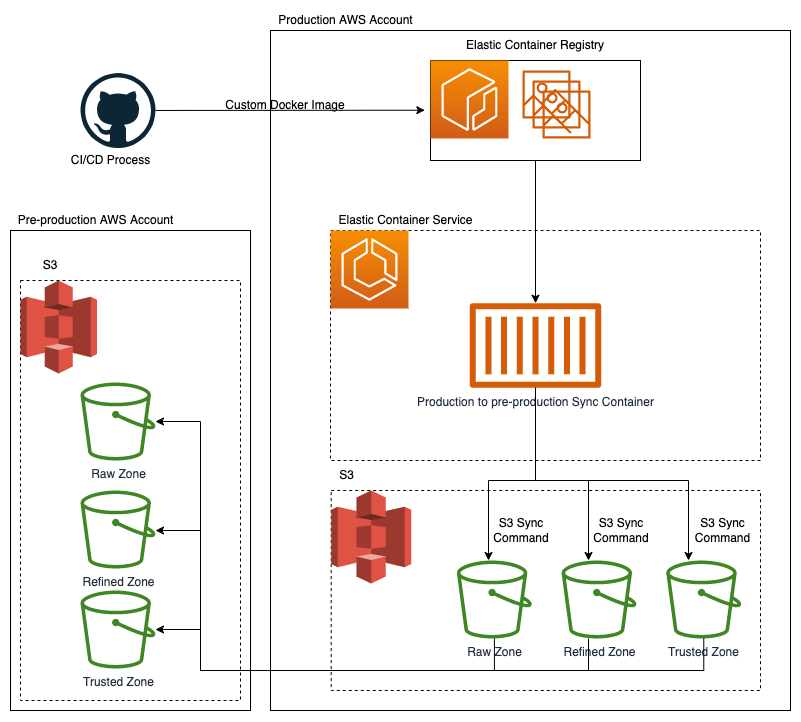
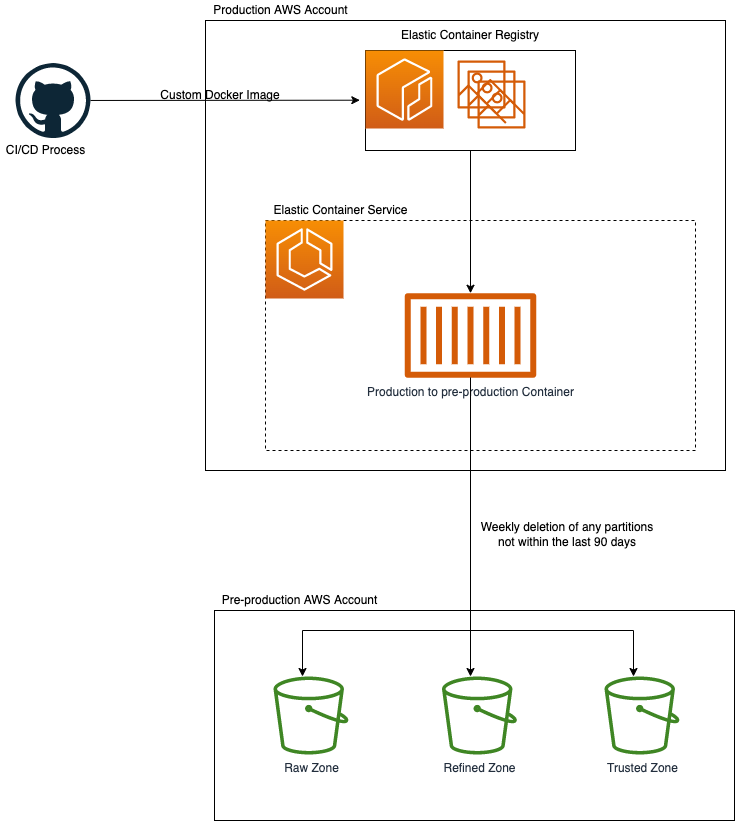
DPP-214 - Production to pre-production data sync documentation update

diff --git a/docs/playbook/ingesting-data/010-production-to-pre-production-sync.md b/docs/playbook/ingesting-data/010-production-to-pre-production-sync.md
@@ -1,0 +1,33 @@
+---
+title: "Production to pre-production data sync"
+description: "Overview of how data is copied from production to pre-production"
+tags: [playbook]
+layout: layout
+---
+
+This section explains the process used to copy data from the data platform production environment into pre-production
+
+## Architecture
+
+### Production to pre-production sync:
+![S3-replication](../../docs/images/s3-replication.png)
+### Clean up of data older than 90 days:
+![Production to pre production sync architecture](../../docs/images/prod-to-pre-prod-sync-architecture.png)
+
+## Process
+
+### Production to pre-production sync:
+1. Data is ingested via any means into the production zones
+2. The data is replicated across to the equivalent pre-production zone in near real time.
+
+Important points:
+* Only new or updated files are replicated to pre-production at the point they are added or modified in production
+* AWS quarantees 99.9% of files/data is replicated to pre-production within 15 minutes but in reality it is much quicker than this
+* There is no deletion or overwriting of data in pre-production via this method
+* This sync process does not update the glue catalogs in pre-production it only syncs across the raw data files. To make the data visible through Athena the relevant Glue crawler will need to be triggered manually in pre-production
+
+### Clean up of data older than 90 days:
+1. When the CI/CD pipeline runs in Github a custom Docker image is built and pushed to the Elastic Container Registry in the Data Platform Production environment.
+2. One Elastic Container Service for each zone is then created by Terraform in the form of Fargate tasks. These three tasks are configured by Terraform to run on a schedule. At the time of writing this schedule is once a day at 11pm.
+4. The script then deletes any data in the pre-production bucket that is older than the configured period
+5. At the time of writing this configurable period is 90 days
